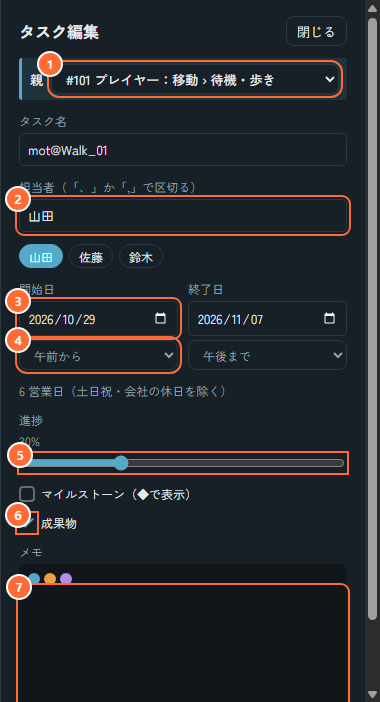
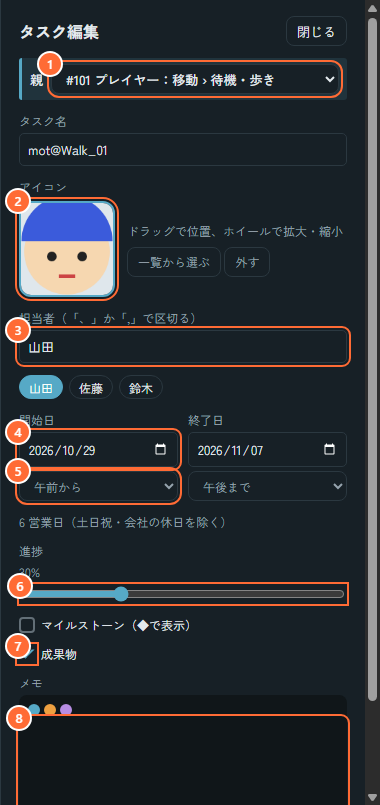
v0.0.12
from e2f1e49

diff --git a/js/ui.js b/js/ui.js
@@ -16,6 +16,7 @@ function openTask(id){
   parOpts(all,r);FF.forEach(([k,get])=>fset(k,get(r,all)));formInit=Object.fromEntries(FF.map(([k])=>[k,fval(k)]));
   ["f-s","f-sh","f-e","f-eh","f-p","f-ms","f-dv"].forEach(k=>$(k).disabled=!!r.parent||readOnly);$("f-pa").disabled=readOnly;
   formExtras(r);
+  fIcon=r.icon&&IMGF.test(r.icon.file)?{...r.icon}:null;fIcon0=icoN(fIcon);fPar=!!r.parent;$("f-icgal").hidden=true;icoForm();
   render();
 }
 /* task form fields; while the form is open, fields the user has not touched follow changes made elsewhere
@@ -39,6 +40,7 @@ function syncForm(){
   const pv=$("f-pa").value;parOpts(all,r);$("f-pa").value=pv;if($("f-pa").selectedIndex<0)$("f-pa").value=formInit["f-pa"]=parId(all,r); // the picked parent is gone: back to where the task is
   let ch=false;FF.forEach(([k,get])=>{const v=get(r,all);if(fval(k)===formInit[k]&&v!==formInit[k]){fset(k,v);formInit[k]=v;ch=true}});
   if(ch)formExtras(r);
+  icoForm(); // a picture read just now
 }
 const formH=(s,e)=>{const a=2*D(s)+($("f-sh").value==="pm"?1:0);return[a,Math.max(a,2*D(e)+($("f-eh").value==="am"?0:1))]}; // the panel's dates as half-day slots: an afternoon start with a morning end on one day = that afternoon
 function bizHint(){const s=$("f-s").value,e=$("f-e").value;if(!s||!e)return"";if(e<s)return"終了日が開始日より前です";return`${bizH(...formH(s,e))} 営業日（土日祝・会社の休日を除く）`}
@@ -71,11 +73,46 @@ $("taskForm").addEventListener("submit",e=>{
   t.assignees=names($("f-as").value);
   if(!$("f-s").disabled){let s=$("f-s").value||t.start,en=$("f-e").value||t.end;if(en<s)en=s;setH(t,...formH(s,en));t.progress=+$("f-p").value;t.milestone=$("f-ms").checked;setDv(t,$("f-dv").checked)}
   t.memo=$("f-memo").value;
+  const ic=icoN(fIcon);if(ic!==fIcon0){if(ic)t.icon=JSON.parse(ic);else delete t.icon} // stored only when there is one, so old data stays as it was
   // 親 changed: move under it (after its children); （なし） = top level, right after the top-level task it was under. moveBlock saves — one undo step with the fields
   const pa=$("f-pa").value,top=()=>{const ts=p.tasks;let i=ts.indexOf(t);while(ts[i].level>0)i--;return ts[i].id};
   if(pa===formInit["f-pa"]||!moveBlock(p,[t.id],pa||top(),pa?"in":"after"))save(p);
   toast("保存しました");closeDrawer();
 });
+/* icon in the task panel (v0.0.12): fIcon = the icon as 保存 will write it (null = none), fIcon0 = as it was. A picture dropped on the box, or picked by
+   clicking the empty box, goes into the shared folder's images/ at once (storage.js imgPut); one from the list is there already. Drag in the box = move, wheel = zoom */
+let fIcon=null,fIcon0="",fPar=false,icoDrag=null;
+const r3=v=>Math.round(v*1000)/1000,icoN=i=>i?JSON.stringify({file:i.file,x:r3(num(i.x,0,1,.5)),y:r3(num(i.y,0,1,.5)),z:r3(num(i.z,1,5,1))}):"";
+const icoOn=()=>!!sh.dir&&sh.ok&&!readOnly;
+function icoForm(){const box=$("f-icbox"),img=box.firstElementChild,c=fIcon&&imgOf(fIcon.file);
+  box.classList.toggle("dv",!fPar&&$("f-dv").checked);box.classList.toggle("has",!!c);box.classList.toggle("off",!icoOn());
+  if(c){img.src=c.url;img.style.cssText=icoPos(c,fIcon)}else img.removeAttribute("src");
+  $("f-ichint").textContent=!sh.dir?"共有フォルダを選ぶとアイコンを使えます":!sh.ok?"共有フォルダに接続するとアイコンを使えます":fIcon&&!c?"画像を読み込み中…（共有フォルダの images に見つからないときは表示されません）"
+    :readOnly?"":c?"ドラッグで位置、ホイールで拡大・縮小":"画像をドロップするか、枠をクリックしてファイルを選びます";
+  $("f-icpick").disabled=!icoOn();$("f-icdel").hidden=!fIcon||readOnly}
+async function icoAdd(f){if(!icoOn())return;$("f-ichint").textContent="画像を保存中…";
+  try{fIcon={file:await imgPut(f),x:.5,y:.5,z:1};$("f-icgal").hidden=true}catch(e){log("img-fail",{step:"add",...errInfo(e)});
+    toast(e?.name==="InvalidStateError"?"画像として読み込めませんでした。PNG・JPEG・WebP などの画像ファイルを選んでください":`画像を保存できませんでした（${e?.name||"Error"}）。共有フォルダにつながっているか確認してください`)}icoForm()}
+const icb=$("f-icbox");
+icb.addEventListener("click",()=>{if(!fIcon&&icoOn())$("f-icin").click()});
+$("f-icin").addEventListener("change",e=>{const f=e.target.files[0];e.target.value="";if(f)icoAdd(f)});
+icb.addEventListener("dragover",e=>{e.preventDefault();e.stopPropagation()});
+icb.addEventListener("drop",e=>{e.preventDefault();e.stopPropagation();const f=e.dataTransfer.files[0];if(f)icoAdd(f)}); // not the page's drop (a backup file)
+icb.addEventListener("pointerdown",e=>{if(!fIcon||!imgs[fIcon.file]?.url||readOnly)return;e.preventDefault();icb.setPointerCapture(e.pointerId);icoDrag=[e.clientX,e.clientY]});
+icb.addEventListener("pointermove",e=>{if(!icoDrag)return;const c=imgs[fIcon.file],s=icb.clientWidth*num(fIcon.z,1,5,1)/Math.min(c.w,c.h); // s = screen px per picture px
+  fIcon={...fIcon,x:num(num(fIcon.x,0,1,.5)-(e.clientX-icoDrag[0])/(s*c.w),0,1,.5),y:num(num(fIcon.y,0,1,.5)-(e.clientY-icoDrag[1])/(s*c.h),0,1,.5)};icoDrag=[e.clientX,e.clientY];icoForm()});
+["pointerup","pointercancel"].forEach(k=>icb.addEventListener(k,()=>icoDrag=null));
+// the same without the mouse: Enter / Space on the empty box = pick a file; arrows move the picture, + / − zoom
+icb.addEventListener("keydown",e=>{if(readOnly)return;if(!fIcon){if((e.key==="Enter"||e.key===" ")&&icoOn()){e.preventDefault();$("f-icin").click()}return}
+  if(!imgs[fIcon.file]?.url)return;const d={ArrowLeft:[-1,0],ArrowRight:[1,0],ArrowUp:[0,-1],ArrowDown:[0,1]}[e.key],z=e.key==="+"||e.key===";"?1.1:e.key==="-"?1/1.1:0;if(!d&&!z)return;e.preventDefault();e.stopPropagation();
+  fIcon=d?{...fIcon,x:num(num(fIcon.x,0,1,.5)+d[0]*.02,0,1,.5),y:num(num(fIcon.y,0,1,.5)+d[1]*.02,0,1,.5)}:{...fIcon,z:num(num(fIcon.z,1,5,1)*z,1,5,1)};icoForm()});
+icb.addEventListener("wheel",e=>{if(!fIcon||!imgs[fIcon.file]?.url||readOnly)return;e.preventDefault();fIcon={...fIcon,z:num(num(fIcon.z,1,5,1)*Math.exp(-e.deltaY/500),1,5,1)};icoForm()},{passive:false});
+$("f-icpick").addEventListener("click",async()=>{const g=$("f-icgal");if(!g.hidden){g.hidden=true;return}g.hidden=false;g.textContent="読み込み中…";
+  const ns=await imgList(),cs=await Promise.all(ns.map(imgLoad));
+  g.innerHTML=ns.map((n,i)=>cs[i]?`<button type="button" data-icf="${n}" title="この画像を使う" aria-label="この画像を使う"><img src="${cs[i].url}" alt=""></button>`:"").join("")||'<span class="hint">共有フォルダの images に画像がありません</span>'}); // n: <16 hex>.webp (IMGF)
+$("f-icgal").addEventListener("click",e=>{const b=e.target.closest("[data-icf]");if(!b||readOnly)return;fIcon={file:b.dataset.icf,x:.5,y:.5,z:1};$("f-icgal").hidden=true;icoForm()});
+$("f-icdel").addEventListener("click",()=>{fIcon=null;icoForm()});
+$("f-dv").addEventListener("change",icoForm); // a deliverable's icon is square
 $("taskDel").addEventListener("click",e=>{
   const b=e.currentTarget;if(!b.classList.contains("arm")){b.classList.add("arm");b.textContent="もう一度押すと削除";return}
   const p=projects[curId];p.tasks=p.tasks.filter(t=>t.id!==editingId);save(p);closeDrawer();toast("削除しました");
@@ -83,9 +120,11 @@ $("taskDel").addEventListener("click",e=>{
 $("projForm").addEventListener("submit",e=>{e.preventDefault();const p=projects[curId];if(readOnly)return;p.name=$("p-name").value.trim()||"無題";save(p);toast("保存しました");closeDrawer()});
 $("p-copy").addEventListener("click",()=>{const v=$("p-json").value;navigator.clipboard.writeText(v).then(()=>toast("コピーしました"),()=>{$("p-json").select();toast("選択しました。Ctrl+C でコピーしてください")})});
 /* replace the current project's tasks (and milestones / members / name when given); shared by JSON and Excel import */
-function replaceData(d){
+// xl: from Excel, which has no icons — a task keeps the icon it has now (same ID). An icon is kept only with a picture name that can be looked up (IMGF)
+function replaceData(d,xl){
   const p=projects[curId];if(!p||readOnly)return;const tasks=Array.isArray(d)?d:d.tasks;if(!Array.isArray(tasks))throw 0;
-  p.tasks=tasks.filter(t=>t&&t.name&&isDay(t.start)&&isDay(t.end)).map(t=>({id:t.id?String(t.id):uid(),name:String(t.name),start:t.start,end:t.end,progress:Math.max(0,Math.min(100,+t.progress||0)),assignees:Array.isArray(t.assignees)?t.assignees.map(String):[],level:+t.level||0,milestone:!!t.milestone,memo:t.memo||"",deps:Array.isArray(t.deps)?t.deps.map(String):[],...(isHex(t.color)?{color:t.color}:{}),...(t.deliverable?{deliverable:true}:{}),...(t.startPM?{startPM:true}:{}),...(t.endAM?{endAM:true}:{})}));
+  const was=Object.fromEntries(p.tasks.map(t=>[t.id,t.icon])),icoIn=i=>i&&IMGF.test(i.file)?{icon:JSON.parse(icoN(i))}:{};
+  p.tasks=tasks.filter(t=>t&&t.name&&isDay(t.start)&&isDay(t.end)).map(t=>({id:t.id?String(t.id):uid(),name:String(t.name),start:t.start,end:t.end,progress:Math.max(0,Math.min(100,+t.progress||0)),assignees:Array.isArray(t.assignees)?t.assignees.map(String):[],level:+t.level||0,milestone:!!t.milestone,memo:t.memo||"",deps:Array.isArray(t.deps)?t.deps.map(String):[],...(isHex(t.color)?{color:t.color}:{}),...(t.deliverable?{deliverable:true}:{}),...(t.startPM?{startPM:true}:{}),...(t.endAM?{endAM:true}:{}),...icoIn(t.icon||xl&&was[String(t.id)])}));
   if(Array.isArray(d.milestones))p.milestones=d.milestones.filter(m=>m&&isDay(m.date)).map(m=>({id:m.id||uid(),date:m.date,title:String(m.title||""),color:MSC.includes(m.color)?m.color:"blue"}));
   if(Array.isArray(d.members))p.members=d.members.map(String);
   if(Array.isArray(d.holidays))p.holidays=d.holidays.filter(h=>h&&isDay(h.date)).map(h=>({date:h.date,color:isHex(h.color)?h.color:HOLC}));
@@ -137,7 +176,7 @@ $("p-xout").addEventListener("click",()=>{const p=projects[curId];if(p)xdl(toXls
 $("p-xlist").addEventListener("click",()=>{const p=projects[curId];if(p)xdl(toListXlsx(p),p," 一覧")});
 $("p-xin").addEventListener("click",()=>$("p-xfile").click());
 $("p-xfile").addEventListener("change",async e=>{const f=e.target.files[0];e.target.value="";if(!f)return;
-  try{replaceData(await fromXlsx(await f.arrayBuffer()))}catch(err){toast("Excelを読み取れませんでした。「タイプ」「タイトル」の列がある .xlsx（Brabio 形式）か確認してください")}});
+  try{replaceData(await fromXlsx(await f.arrayBuffer()),true)}catch(err){toast("Excelを読み取れませんでした。「タイプ」「タイトル」の列がある .xlsx（Brabio 形式）か確認してください")}});
 /* backup folder (storage.js): pick it, 保存 button, what was saved last, restore from any saved file */
 function bkInfo(){
   $("saveBtn").hidden=!window.showDirectoryPicker;
@@ -212,7 +251,10 @@ document.addEventListener("keydown",e=>{if(e.key==="Escape"&&!drawer.hidden)clos
 $("projSel").addEventListener("change",e=>setCur(e.target.value));
 $("projNew").addEventListener("click",newProject);
 $("projSet").addEventListener("click",()=>$("projForm").hidden?openProject():closeDrawer()); // it shows a cross while open: pressing it again closes
-$("meSel").addEventListener("change",e=>{me=e.target.value;ls.set("mg.me",me);render()});
+const setMe=v=>{me=v;ls.set("mg.me",me);render()};
+$("meSel").addEventListener("change",e=>{const s=e.target;if(!s.selectedOptions[0].hasAttribute("data-in"))return setMe(s.value);s.hidden=true;const i=$("meIn");i.hidden=false;i.value=me;i.focus();i.select()}); // 名前を入力…: a name off the roster, so a newcomer can take the lock and add themselves
+$("meIn").addEventListener("keydown",e=>{if(e.key!=="Enter"&&e.key!=="Escape")return;e.stopPropagation();const v=e.target.value.trim();e.target.blur();if(e.key==="Enter"&&v)setMe(v)});
+$("meIn").addEventListener("blur",e=>{e.target.hidden=true;$("meSel").hidden=false;render()}); // left without Enter: nothing changes
 $("whoSel").addEventListener("change",e=>{view.who=e.target.value;render()});
 document.querySelectorAll("[data-view]").forEach(b=>b.addEventListener("click",()=>{view.list=b.dataset.view==="list";ls.set("mg.view",view.list?"list":"gantt");render()}));
 $("leafBtn").addEventListener("click",()=>{view.leaf=!view.leaf;ls.set("mg.leaf",view.leaf?"1":"");render()}); // only the top folders and the tagged tasks (deliverables), in 一覧 and the chart
@@ -320,6 +362,11 @@ document.addEventListener("keydown",e=>{if(e.key==="Escape"&&pgEdit)closePg()});
 
 /* right-click menu on the task name side */
 const ctx=$("ctxMenu");let ctxId=null;
+// a task icon held under the mouse for 0.2 s: the whole picture beside it (v0.0.12)
+let icoT=0;const icoOff=()=>{clearTimeout(icoT);$("icoPop").hidden=true};
+chart.addEventListener("mouseover",e=>{const i=e.target.closest(".ico");if(!i)return;icoOff();icoT=setTimeout(()=>{const c=imgs[i.dataset.img];if(!c?.url||!i.isConnected)return;const p=$("icoPop"),b=i.getBoundingClientRect();
+  p.firstChild.src=c.url;p.hidden=false;const ph=c.h*Math.min(1,256/c.w,256/c.h)+10;p.style.left=b.right+8+"px";p.style.top=Math.max(8,Math.min(innerHeight-ph-8,b.top+b.height/2-ph/2))+"px"},200)});
+chart.addEventListener("mouseout",e=>{if(e.target.closest(".ico"))icoOff()});
 chart.addEventListener("contextmenu",e=>{const o=e.target.closest("[data-open]");if(!o||readOnly||e.target.closest("input"))return;e.preventDefault();
   ctxId=o.dataset.open;if(!sel.has(ctxId))selectRow(ctxId);
   const r=derive(projects[curId]).find(x=>x.id===ctxId);$("ctxColor").hidden=!r?.parent; // 色 only for parents

diff --git a/guide.html b/guide.html
@@ -123,7 +123,7 @@ ol.steps>li{margin-bottom:6px}
 <h3>1-3. 自分の名前を選ぶ</h3>
 <p>右上の「自分」<span class="n">1</span>で自分の名前を選びます。<b>「自分」を選ぶまで、共有プロジェクトは閲覧のみです</b>（だれが編集中かを表示するために使います）。</p>
 <figure><img src="guide/me.png" alt="右上の「自分」のプルダウン" width="309" height="46" loading="lazy"><figcaption>このパソコンのブラウザに記憶されるので、毎回選ぶ必要はありません。</figcaption></figure>
-<div class="note">一覧に自分の名前がないときは、プロジェクトのメンバー名簿に登録されていません。共有プロジェクトの名簿はロック中の人だけが変更できるので、すでに使っている人に「設定」→「メンバー」<span class="n">1</span>（上の「設定」パネルの写真）で追加してもらってください。</div>
+<div class="note">一覧に自分の名前がないときは、プロジェクトのメンバー名簿に登録されていません。「自分」の最後の「名前を入力…」を選んで自分の名前を入力し、Enter を押してください。そのあと編集ロック（<a href="#lock">3 章</a>）をかけて、「設定」→「メンバー」<span class="n">1</span>（上の「設定」パネルの写真）で自分を追加します。</div>
 
 <h3>1-4. プロジェクトを開く</h3>
 <p>左上のプロジェクトのプルダウンから選びます。名前の前に 👥 が付いているのが共有ドライブのプロジェクトです。</p>
@@ -198,15 +198,16 @@ ol.steps>li{margin-bottom:6px}
 </table>
 <figure><img src="guide/bar.png" alt="バー。1 中央をドラッグで移動、2 端をドラッグで日付変更、3 進捗をダブルクリック" width="498" height="109" loading="lazy"><figcaption><span class="n">1</span>中央をドラッグで移動　<span class="n">2</span>端をドラッグで開始日・終了日　<span class="n">3</span>ダブルクリックで進捗。矢印はリンク（前の工程が延びると後ろが自動でずれます）</figcaption></figure>
 <div class="row2">
-<figure><img src="guide/task-panel.png" alt="タスク編集パネル" width="380" height="702" loading="lazy"><figcaption>ダブルクリックで開くパネル</figcaption></figure>
+<figure><img src="guide/task-panel.png" alt="タスク編集パネル" width="380" height="805" loading="lazy"><figcaption>ダブルクリックで開くパネル</figcaption></figure>
 <div style="flex:1 1 300px">
 <p><span class="n">1</span><b>親</b>：どのタスクの下に入るか。変えて「保存」で移動します</p>
-<p><span class="n">2</span><b>担当者</b>：下の名前を押しても選べます</p>
-<p><span class="n">3</span><b>開始日・終了日</b></p>
-<p><span class="n">4</span><b>午前から / 午後から</b>：半日単位にできます（終了日は「午後まで / 午前まで」）</p>
-<p><span class="n">5</span><b>進捗</b></p>
-<p><span class="n">6</span><b>成果物</b>：成果物のタグ（<a href="#list">第 6 章</a>）</p>
-<p><span class="n">7</span><b>メモ</b>：説明やリンクなど</p>
+<p><span class="n">2</span><b>アイコン</b>：タスクの前に付ける画像（<a href="#icon">下の「アイコン」</a>）</p>
+<p><span class="n">3</span><b>担当者</b>：下の名前を押しても選べます</p>
+<p><span class="n">4</span><b>開始日・終了日</b></p>
+<p><span class="n">5</span><b>午前から / 午後から</b>：半日単位にできます（終了日は「午後まで / 午前まで」）</p>
+<p><span class="n">6</span><b>進捗</b></p>
+<p><span class="n">7</span><b>成果物</b>：成果物のタグ（<a href="#list">第 6 章</a>）</p>
+<p><span class="n">8</span><b>メモ</b>：説明やリンクなど</p>
 <p>最後に「保存」を押します。</p>
 </div>
 </div>
@@ -215,6 +216,26 @@ ol.steps>li{margin-bottom:6px}
 <div style="flex:1 1 260px">
 <p><b>子タスクをまとめて追加</b>：右クリック →「子タスクを一括追加」で、1 行に 1 つ名前を書く（貼り付けもできます）と、まとめて子タスクになります。</p>
 <p><b>親タスク</b>：子タスクを持つタスクです。日付・進捗・担当は子タスクから自動で計算されるので、子タスクのほうを変えてください。階層は 4 段までです。</p>
+</div>
+</div>
+
+<h3 id="icon">アイコン</h3>
+<p>タスク名が ID ばかりで、どのキャラクターか分からないときは、タスクやフォルダの前に<b>画像</b>を付けられます。アイコンは名前の前の丸の代わりに表示され（成果物は四角）、外側の線の色が状態を表します。フォルダのアイコンは 📂 と名前の間に出ます。</p>
+<figure><img src="guide/icon-rows.png" alt="アイコンを付けたタスクとフォルダ" width="548" height="391" loading="lazy"><figcaption>同じ画像を何個のタスクに付けても構いません。アイコンのないタスクは元の丸のままです</figcaption></figure>
+<div class="row2">
+<figure><img src="guide/icon-panel.png" alt="詳細編集パネルのアイコン" width="364" height="213" loading="lazy"><figcaption>詳細編集パネルの「アイコン」</figcaption></figure>
+<div style="flex:1 1 300px">
+<p><span class="n">1</span>パソコンの画像をこの枠に<b>ドラッグ＆ドロップ</b>します（空の枠をクリックしてファイルを選んでも構いません）。画像は共有フォルダに保存され、みんなが使えるようになります。枠の中を<b>ドラッグ</b>すると丸に映る部分が動き、<b>マウスホイール</b>で拡大・縮小します</p>
+<p><span class="n">2</span><b>一覧から選ぶ</b>：だれかがすでに入れた画像から選びます。ほかのプロジェクトで使っている画像も選べます</p>
+<p><span class="n">3</span><b>外す</b>：このタスクからアイコンを外します（画像そのものは残ります）</p>
+<p><span class="n">4</span>入っている画像の一覧。押すとその画像になります</p>
+<p>最後に「保存」を押します。</p>
+</div>
+</div>
+<div class="row2">
+<figure><img src="guide/icon-hover.png" alt="アイコンにマウスを置くと画像全体が出る" width="280" height="272" loading="lazy"><figcaption>アイコンの上にマウスを少し置くと、画像全体が表示されます</figcaption></figure>
+<div style="flex:1 1 260px">
+<div class="note">アイコンは<b>共有フォルダにつながっているとき</b>だけ使えます（<a href="#setup">1-2</a>）。つながっていないときは、アイコンの代わりに元の丸が表示されます。</div>
 </div>
 </div>
 
@@ -279,12 +300,13 @@ ol.steps>li{margin-bottom:6px}
 <h2 id="faq">10. 困ったとき</h2>
 <table>
   <tr><th>困ったこと</th><th>原因と対処</th></tr>
+  <tr><td>アイコンが表示されない・付けられない</td><td>共有フォルダにつながっていません（<a href="#setup">1-2</a>）。画面をクリックすると接続を許可するか聞かれることがあります。つながっているのに丸のままのときは、その画像が共有フォルダの <code>data\images\</code> にありません（消された可能性があります）。アイコンを付け直してください</td></tr>
   <tr><td>共有プロジェクトが編集できない・ボタンを押しても何も起こらない</td><td>ロックがかかっていません。タスク表の左上のスイッチを押してください。押せないときは「自分」が未選択です（<a href="#setup">1-3</a>）。赤で「〇〇さんが編集中」なら、終わるのを待ちます</td></tr>
   <tr><td>「新しいバージョン … Tempo.bat から開き直してください」と出た</td><td>ページを閉じて、<code>Tempo.bat</code> から開き直してください。それまで共有プロジェクトは閲覧のみです</td></tr>
   <tr><td>「共有フォルダに接続できません」と出た</td><td>共有ドライブにつながっているか確認してください。その間、共有プロジェクトは閲覧のみです</td></tr>
   <tr><td>「未保存の変更があります（再試行中）」が消えない</td><td>保存を自動で再試行しています。ページを閉じずに、共有ドライブへの接続を確認してください。続くときは、メッセージのかっこ内の英語を管理者に伝えます</td></tr>
   <tr><td>「フォルダを選ぶ」で data を選べない</td><td>共有ドライブの <code>Tempo.html</code> を直接開いていませんか。<code>Tempo.bat</code> から開いてください</td></tr>
-  <tr><td>「自分」に自分の名前がない</td><td>名簿に登録されていません。すでに使っている人に「設定」→「メンバー」で追加してもらってください</td></tr>
+  <tr><td>「自分」に自分の名前がない</td><td>名簿に登録されていません。「名前を入力…」で名前を入力し、ロックしてから「設定」→「メンバー」で自分を追加してください（<a href="#setup">1-3</a>）</td></tr>
   <tr><td>親タスクの日付が変えられない</td><td>子タスクから自動計算されます。子タスクの日付を変えてください</td></tr>
   <tr><td>ドラッグすると文字が選択されてしまう</td><td>行を約 0.35 秒長押ししてからドラッグします</td></tr>
   <tr><td>進捗の「N%」をクリックしても反応しない</td><td>ダブルクリックです</td></tr>
@@ -300,6 +322,7 @@ ol.steps>li{margin-bottom:6px}
   <tr><td><code>app\</code></td><td>Web ページ。新しいバージョンの公開時に丸ごと入れ替わるので、ほかのファイルを置かないでください</td></tr>
   <tr><td><code>data\projects\</code></td><td>プロジェクトごとに 1 ファイル（<code>プロジェクト名_ID.json</code>）。直接編集・削除しないでください。バックアップファイルをここへコピーしても読み込まれません（「バックアップから復元」→「共有フォルダへ移動」を使います）</td></tr>
   <tr><td><code>data\locks\</code></td><td>編集ロックの空のファイル。そのままで構いません（古いものは 2 分で無効になります）</td></tr>
+  <tr><td><code>data\images\</code></td><td>タスクのアイコンの画像（全プロジェクト共通）。ファイル名は Tempo が付けます。タスクから外しても残ります。削除しないでください（ほかのプロジェクトで使っているかもしれません）</td></tr>
   <tr><td><code>data\logs\</code></td><td>操作の記録（1 人 1 日 1 ファイル）。不具合の調査用で、古いものはいつ削除してもかまいません</td></tr>
   <tr><td><code>Tempo.bat</code></td><td>起動用。各自が自分のパソコンにコピーして使います</td></tr>
 </table>

diff --git a/js/view.js b/js/view.js
@@ -13,7 +13,7 @@ function renderToolbar(){
   const ms=p?members(p):[];
   if(view.who&&!ms.includes(view.who))view.who="";
   $("whoSel").innerHTML=`<option value="">（全員）</option>`+ms.map(m=>`<option${m===view.who?" selected":""}>${esc(m)}</option>`).join("");
-  $("meSel").innerHTML=`<option value="">自分：未選択</option>`+[...new Set([...(p?roster(p):[]),...(me?[me]:[])])].map(m=>`<option value="${esc(m)}"${m===me?" selected":""}>自分：${esc(m)}</option>`).join("");
+  $("meSel").innerHTML=`<option value="">自分：未選択</option>`+[...new Set([...(p?roster(p):[]),...(me?[me]:[])])].map(m=>`<option value="${esc(m)}"${m===me?" selected":""}>自分：${esc(m)}</option>`).join("")+`<option data-in>名前を入力…</option>`; // not on the roster (a newcomer): typed in, ui.js meIn
   $("members").innerHTML=ms.map(m=>`<option value="${esc(m)}">`).join("");
   document.querySelectorAll("[data-scale]").forEach(b=>{b.setAttribute("aria-pressed",b.dataset.scale===view.scale);b.disabled=view.list});$("todayBtn").disabled=view.list; // no timeline in 一覧
   document.querySelectorAll("[data-view]").forEach(b=>b.setAttribute("aria-pressed",(b.dataset.view==="list")===view.list));
@@ -50,6 +50,12 @@ const dS=h=>md(h>>1)+(h&1?'<sup class="half" title="午後から">½</sup>':""),
 function offSegs(h0,h1,dw){let o="";for(let n=h0>>1;n<=h1>>1;n++)if(isOff(n)){let m=n;while(m<h1>>1&&isOff(m+1))m++;const a0=Math.max(2*n,h0),b0=Math.min(2*m+1,h1);
   o+=`<i class="offd" style="left:${(a0-h0)*dw/2}px;width:${(b0-a0+1)*dw/2}px"></i>`;n=m}return o}
 const isDv=r=>!!r.deliverable&&!r.parent; // a deliverable (成果物): tagged, and only while it has no sub-tasks — like the milestone flag
+// task icon (v0.0.12): the picture in a circle (a square for a deliverable) ringed in the status color, in place of the dot; a folder's after its fold button, ringed in its color.
+// icon.x / y = the point of the picture at the middle (0–1), z = zoom (1 = its shorter side fills the circle). Not shown until the picture is read (storage.js imgOf)
+const num=(v,a,b,d)=>{v=+v;return Number.isFinite(v)?Math.min(b,Math.max(a,v)):d};
+const icoPos=(c,i)=>{const z=num(i.z,1,5,1),m=Math.min(c.w,c.h),W=z*c.w/m*100,V=z*c.h/m*100;return`width:${W}%;height:${V}%;left:${50-num(i.x,0,1,.5)*W}%;top:${50-num(i.y,0,1,.5)*V}%`}; // c = the picture's size, i = the icon
+function ico(r){const c=r.icon&&imgOf(r.icon.file);if(!c)return"";
+  return`<span class="ico${r.parent?"":` st-${r.st}`}${isDv(r)?" dv":""}" data-img="${r.icon.file}" role="img" aria-label="${r.parent?"アイコン":ST[r.st]+(isDv(r)?"・成果物":"")}"><img src="${c.url}" alt="" style="${icoPos(c,r.icon)}"></span>`}
 // 一覧 view, 完了 column: a leaf has a checkbox (100% ⇄ 0%); a parent shows 完了 when every task under it is done, else done / all.
 // dvOnly (成果物のみ): a folder counts its deliverables only, — when it has none
 function doneCell(all,r,dvOnly){
@@ -72,7 +78,7 @@ function refRows(rp,all,rms,X,XH,dw){
     const h0=hs(r),h1=he(r),x=XH(h0),w=(h1-h0+1)*dw/2,slim=r.parent&&r.level&&!shut,id=esc(r.id),urg=!r.parent&&r.st!=="done"&&r.st!=="over";
     const mark=slim?"":r.milestone&&!r.parent?`<div class="ms st-${r.st}" style="left:${X(h1>>1)+dw/2-7}px" title="${esc(r.name)}"></div><span class="who" style="left:${X(h1>>1)+dw/2+12}px">${lab(r,h0,h1)}</span>`
       :`<div class="bar st-${r.st}${r.parent?" sum":""}${urg?" urg dl"+delay(r):""}" style="left:${x}px;width:${w}px" title="${esc(r.name)}｜${ST[r.st]}"><div class="fill" style="width:${r.progress}%"></div>${offSegs(h0,h1,dw)}${!r.parent&&w>50?`<span class="bl">${esc(r.name)}</span>`:""}</div><span class="who" style="left:${x+w+6}px">${lab(r,h0,h1)}</span>`;
-    h+=`<div class="row ref${r.parent?" parent pc":""}${slim?" slim":""}"${r.parent?` style="--pc:${parColor(r)}"`:""}><div class="lc"><div class="c-name" style="padding-left:${6+(leaf?(r.level?1:0):r.level)*18}px">${r.parent?`<button type="button" class="tg" data-rtg="${id}" aria-label="折りたたみ" aria-expanded="${!shut}">${r.level?(shut?"▸":"▾"):folder(!shut)}</button>`:`<span class="dot st-${r.st}${r.deliverable?" dv":""}" title="${ST[r.st]}"></span>`}<span class="tn"${leaf&&r.level>1?` title="${esc(pa.slice(1,r.level).join(" › "))}"`:""}>${esc(r.name)}</span></div><div class="c-as">${esc(r.assignees.join("、"))}</div><div class="c-d">${slim?"":dS(h0)}</div><div class="c-d">${slim?"":dE(h1)}</div><div class="c-n">${bizH(h0,h1)}</div><div class="c-p">${r.progress}%</div></div><div class="tl">${mark}</div></div>`;
+    h+=`<div class="row ref${r.parent?" parent pc":""}${slim?" slim":""}"${r.parent?` style="--pc:${parColor(r)}"`:""}><div class="lc"><div class="c-name" style="padding-left:${6+(leaf?(r.level?1:0):r.level)*18}px">${r.parent?`<button type="button" class="tg" data-rtg="${id}" aria-label="折りたたみ" aria-expanded="${!shut}">${r.level?(shut?"▸":"▾"):folder(!shut)}</button>${ico(r)}`:ico(r)||`<span class="dot st-${r.st}${r.deliverable?" dv":""}" title="${ST[r.st]}"></span>`}<span class="tn"${leaf&&r.level>1?` title="${esc(pa.slice(1,r.level).join(" › "))}"`:""}>${esc(r.name)}</span></div><div class="c-as">${esc(r.assignees.join("、"))}</div><div class="c-d">${slim?"":dS(h0)}</div><div class="c-d">${slim?"":dE(h1)}</div><div class="c-n">${bizH(h0,h1)}</div><div class="c-p">${r.progress}%</div></div><div class="tl">${mark}</div></div>`;
   });
   return h;
 }
@@ -156,7 +162,7 @@ function render(){
       mark=`<div class="bar st-${r.st}${r.parent?" sum":""}${urg?" urg dl"+delay(r):""}" data-bar="${id}" style="left:${x}px;width:${w}px" title="${esc(r.name)}｜${md(s)}${h0&1?"午後":""}〜${md(e)}${h1&1?"":"午前"}｜${r.progress}%｜${ST[r.st]}"><div class="fill" style="width:${r.progress}%"></div>${offSegs(h0,h1,dw)}${!r.parent&&w>50?`<span class="bl">${esc(r.name)}</span>`:""}${r.parent?"":`<i class="h l"></i><i class="h r"></i>`}</div><span class="who" style="left:${x+w+6}px">${lab(r,h0,h1)}</span>`;
     }
     rowsHtml+=`<div class="row${r.parent?" parent":""}${r.parent?" pc":""}${slim?" slim":""}${r.id===editingId||sel.has(r.id)?" sel":""}"${r.parent?` style="--pc:${parColor(r)}"`:""} data-id="${id}">
-      <div class="lc" data-open="${id}"><div class="c-name" style="padding-left:${6+(leaf?(r.level?1:0):r.level)*18}px">${r.parent?`<button type="button" class="tg" data-tg="${id}" aria-label="折りたたみ" aria-expanded="${!collapsed.has(r.id)}">${r.level?(collapsed.has(r.id)?"▸":"▾"):folder(!collapsed.has(r.id))}</button>`:`<span class="dot st-${r.st}${r.deliverable?" dv":""}" title="${ST[r.st]}${r.deliverable?"・成果物":""}"></span>`}<span class="tn"${leaf&&r.level>1?` title="${esc(pa.slice(1,r.level).join(" › "))}"`:""}>${esc(r.name)}</span></div><div class="c-as">${r.parent||readOnly?esc(who):`<button type="button" class="asbox${who?"":" none"}" data-as="${id}" aria-label="担当者を選ぶ" title="${esc(who)}"><span>${esc(who)||"担当なし"}</span><b aria-hidden="true">${who?"▾":"＋"}</b></button>`}</div><div class="c-d">${slim?"":dS(h0)}</div><div class="c-d">${slim?"":dE(h1)}</div><div class="c-n">${bd}</div><div class="c-p">${r.progress}%</div><div class="c-id">${id}</div><div class="c-st">${ST[r.st]}</div><div class="c-done">${list?doneCell(all,r,leaf):""}</div></div>
+      <div class="lc" data-open="${id}"><div class="c-name" style="padding-left:${6+(leaf?(r.level?1:0):r.level)*18}px">${r.parent?`<button type="button" class="tg" data-tg="${id}" aria-label="折りたたみ" aria-expanded="${!collapsed.has(r.id)}">${r.level?(collapsed.has(r.id)?"▸":"▾"):folder(!collapsed.has(r.id))}</button>${ico(r)}`:ico(r)||`<span class="dot st-${r.st}${r.deliverable?" dv":""}" title="${ST[r.st]}${r.deliverable?"・成果物":""}"></span>`}<span class="tn"${leaf&&r.level>1?` title="${esc(pa.slice(1,r.level).join(" › "))}"`:""}>${esc(r.name)}</span></div><div class="c-as">${r.parent||readOnly?esc(who):`<button type="button" class="asbox${who?"":" none"}" data-as="${id}" aria-label="担当者を選ぶ" title="${esc(who)}"><span>${esc(who)||"担当なし"}</span><b aria-hidden="true">${who?"▾":"＋"}</b></button>`}</div><div class="c-d">${slim?"":dS(h0)}</div><div class="c-d">${slim?"":dE(h1)}</div><div class="c-n">${bd}</div><div class="c-p">${r.progress}%</div><div class="c-id">${id}</div><div class="c-st">${ST[r.st]}</div><div class="c-done">${list?doneCell(all,r,leaf):""}</div></div>
       <div class="tl">${mark}</div></div>`;
   });
   if(!readOnly)rowsHtml+=`<div class="row addrow"><div class="lc" data-act="add"><div class="c-name" style="padding-left:12px">＋ タスクを追加</div></div><div class="tl"></div></div>`;

diff --git a/Tempo.html b/Tempo.html
@@ -14,12 +14,12 @@
 
 <div class="app">
   <div class="topbar">
-    <div class="brand"><i aria-hidden="true"><b></b><b style="--n:1"></b><b style="--n:2"></b></i><span role="img" aria-label="Tempo"><b style="--n:3">T</b><b style="--n:4">e</b><b style="--n:5">m</b><b style="--n:6">p</b><b style="--n:7">o</b></span><small class="ver">v0.0.11</small></div>
+    <div class="brand"><i aria-hidden="true"><b></b><b style="--n:1"></b><b style="--n:2"></b></i><span role="img" aria-label="Tempo"><b style="--n:3">T</b><b style="--n:4">e</b><b style="--n:5">m</b><b style="--n:6">p</b><b style="--n:7">o</b></span><small class="ver">v0.0.12</small></div>
     <select id="projSel" aria-label="プロジェクト"></select>
     <span class="spacer"></span>
     <span class="mode" id="modeLbl"></span>
     <button class="btn" id="saveBtn" type="button" title="バックアップフォルダに今の状態を保存（ファイル名は押した日時）">保存</button>
-    <select id="meSel" aria-label="自分" title="自分の名前（メンバー名簿から選ぶ・このブラウザに保存）"></select>
+    <select id="meSel" aria-label="自分" title="自分の名前（メンバー名簿から選ぶか、名簿にないときは入力・このブラウザに保存）"></select><input id="meIn" hidden maxlength="40" placeholder="自分の名前" aria-label="自分の名前">
   </div>
   <div class="bar1">
     <div class="seg" role="group" aria-label="表示">
@@ -77,6 +77,11 @@
     <header><h2>タスク編集</h2><button class="btn" type="button" data-close>閉じる</button></header>
     <label id="f-par" title="このタスクの親タスク。変えて「保存」を押すと、その親タスクの下へ移動します">親<select id="f-pa"></select></label>
     <label>タスク名<input id="f-name" required autocomplete="off"></label>
+    <div class="icf" id="f-ic">アイコン
+      <div class="icrow"><div class="icbox" id="f-icbox" tabindex="0" role="button" aria-label="アイコン（画像のドロップ、Enter でファイルを選ぶ、矢印キーで位置、＋ − で拡大・縮小）"><img alt=""><span>画像を<br>ドロップ</span></div>
+        <div class="icside"><span class="hint" id="f-ichint"></span><div><button class="btn" type="button" id="f-icpick">一覧から選ぶ</button> <button class="btn" type="button" id="f-icdel">外す</button></div></div></div>
+      <div class="icgal" id="f-icgal" hidden></div><input type="file" id="f-icin" accept="image/*" hidden>
+    </div>
     <label>担当者（「、」か「,」で区切る）<input id="f-as" list="members" autocomplete="off"></label>
     <div class="mem" id="f-mem" aria-label="メンバーから選ぶ"></div>
     <div class="two"><label>開始日<input type="date" id="f-s" max="9999-12-31"><select id="f-sh" aria-label="開始日の午前・午後"><option value="am">午前から</option><option value="pm">午後から</option></select></label><label>終了日<input type="date" id="f-e" max="9999-12-31"><select id="f-eh" aria-label="終了日の午前・午後"><option value="pm">午後まで</option><option value="am">午前まで</option></select></label></div>
@@ -115,6 +120,7 @@
 
 <div class="pop ctx" id="ctxMenu" role="menu" hidden><button type="button" role="menuitem" id="ctxRename">名前を変更</button><hr role="separator"><button type="button" role="menuitem" data-ctx="copy">コピー<kbd>Ctrl+C</kbd></button><button type="button" role="menuitem" data-ctx="paste">貼り付け<kbd>Ctrl+V</kbd></button><hr role="separator"><button type="button" role="menuitem" data-ctx="insAbove">上にタスクを挿入</button><button type="button" role="menuitem" data-ctx="insBelow">下にタスクを挿入</button><button type="button" role="menuitem" id="ctxBulk">子タスクを一括追加</button><hr role="separator"><button type="button" role="menuitem" id="ctxDv" title="選択中の、子タスクのないタスクに成果物のタグを付けます／外します">成果物にする</button><hr role="separator"><button type="button" role="menuitem" data-ctx="indent">子タスクにする<kbd>Tab</kbd></button><button type="button" role="menuitem" data-ctx="outdent">階層を上げる<kbd>Shift+Tab</kbd></button><button type="button" role="menuitem" data-ctx="up">上へ移動<kbd>Alt+↑</kbd></button><button type="button" role="menuitem" data-ctx="down">下へ移動<kbd>Alt+↓</kbd></button><div class="ctxc" id="ctxColor" hidden>色<input type="color" id="ctxPc" aria-label="親タスクの色"><button type="button" id="ctxPcOk">決定</button><button type="button" id="ctxPcNone">既定の色</button></div></div>
 <div class="pop aspop" id="asPop" hidden><div class="mem" id="asMem" aria-label="担当者を選ぶ"></div></div>
+<div id="icoPop" hidden><img alt=""></div>
 <div class="pop pgpop" id="pgPop" hidden><input type="range" id="pgR" min="0" max="100" step="5" aria-label="進捗"><button class="btn" type="button" id="pgBack">戻す</button></div>
 <form class="pop" id="dropPop" hidden>
   <h3>バックアップを読み込みますか？</h3>

diff --git a/js/storage.js b/js/storage.js
@@ -95,6 +95,27 @@ async function shWrite(dir,n,obj){let fh,made=false,step="find";
     step="open";const w=await fh.createWritable();step="write";await w.write(JSON.stringify(obj,null,1));step="close";await w.close()}
   catch(e){log("write-fail",{file:n,step,...errInfo(e)});if(made)try{if(!(await fh.getFile()).size)await dir.removeEntry(n)}catch(_){}throw e} // still empty: not what someone else wrote there meanwhile
   return fh}
+// Task icons (v0.0.12): pictures in images/, shared by every project; a task keeps only the file name (t.icon.file, <16 hex>.webp — anything else is not looked up).
+// Each is read once per page and kept as a blob URL with its size; one not found (or no folder) is looked for again after a minute. Loading redraws once
+const IMGF=/^[0-9a-f]{16}\.webp$/,imgs={};let imgT=0; // imgs: name → {url, w, h} | {p: being read} | {at: when it was not found}
+const imgKeep=async b=>{const bm=await createImageBitmap(b),c={url:URL.createObjectURL(b),w:bm.width,h:bm.height};bm.close();return c};
+function imgLoad(f){const c=imgs[f];if(c?.url)return Promise.resolve(c);if(c?.p)return c.p;if(c&&Date.now()-c.at<60e3||!sh.dir||!sh.ok)return Promise.resolve(null);
+  const p=(async()=>{try{return imgs[f]=await imgKeep(await(await(await sh.dir.getDirectoryHandle("images")).getFileHandle(f)).getFile())}
+    catch(e){imgs[f]={at:Date.now()};if(e.name!=="NotFoundError")log("img-fail",{file:f,...errInfo(e)});return null}})();
+  imgs[f]={p};return p}
+function imgOf(f){if(typeof f!=="string"||!IMGF.test(f))return null;const c=imgs[f];if(c?.url)return c;
+  if(!c?.p)imgLoad(f).then(x=>{if(x){clearTimeout(imgT);imgT=setTimeout(()=>{if(!busy())render()},50)}});return null}
+// every picture in images/, for the task panel's list. ponytail: reads them all; fine for a few hundred small pictures
+async function imgList(){let d;try{d=await sh.dir.getDirectoryHandle("images")}catch(e){return[]}const out=[];for await(const[n,h]of d.entries())if(h.kind==="file"&&IMGF.test(n))out.push(n);return out.sort()}
+// a picture dropped into the task panel: shrunk to 512 px on its longer side, as WebP, named by its content — the same picture twice is one file, and
+// nobody else's file has its name. Written at once (the task's icon itself waits for 保存); a file of that name already there is kept, unless it is empty
+async function imgPut(file){const bm=await createImageBitmap(file),k=Math.min(1,512/Math.max(bm.width,bm.height)),cv=new OffscreenCanvas(Math.max(1,Math.round(bm.width*k)),Math.max(1,Math.round(bm.height*k)));
+  cv.getContext("2d").drawImage(bm,0,0,cv.width,cv.height);bm.close();const b=await cv.convertToBlob({type:"image/webp",quality:.9});
+  const n=[...new Uint8Array(await crypto.subtle.digest("SHA-256",await b.arrayBuffer()))].slice(0,8).map(x=>x.toString(16).padStart(2,"0")).join("")+".webp";
+  await shRun(async()=>{const d=await shDir("images");try{if((await(await d.getFileHandle(n)).getFile()).size)return}catch(e){if(e.name!=="NotFoundError")throw e}
+    let step="create";try{const w=await(await d.getFileHandle(n,{create:true})).createWritable();step="write";await w.write(b);step="close";await w.close()}
+    catch(e){log("write-fail",{file:"images/"+n,step,...errInfo(e)});try{await d.removeEntry(n)}catch(_){}throw e}}); // an empty file left would stand for the picture
+  log("img-save",{file:n});imgs[n]=await imgKeep(b);return n}
 // The log (core.js log) goes to logs/<day>_<自分>.log: appended with the look at the folder, at most every 10 s, only when there is something new.
 // Everyone writes their own file and nobody reads them, so they are not in each other's way. What can't be written stays in logBuf and goes out
 // later; a failure here is neither shown nor logged — the log must not add trouble of its own

diff --git a/css/tempo.css b/css/tempo.css
@@ -94,6 +94,7 @@ input[type="range"]{accent-color:var(--accent)}
 .topbar .mode.warn{color:#F2A33C;font-weight:700} /* a save failed and is being tried again */
 .topbar #projSel{font-weight:500;max-width:40vw}
 .topbar select,.topbar .btn{height:26px;color:var(--ink)}
+#meIn{height:26px;width:140px;border:1px solid var(--line);border-radius:8px;padding:0 8px;font:inherit;color:var(--ink);background:var(--panel)}
 /* search: a magnifier inside the box on the left — after Uiverse.io, escannord "hot-yak-44" (picked by the user) */
 .q{position:relative;display:inline-flex;align-items:center}
 .q svg{position:absolute;left:9px;width:14px;height:14px;fill:var(--accent);pointer-events:none}
@@ -253,6 +254,29 @@ body.rowdrag,body.rowdrag *{cursor:grabbing!important}
 .corner .c-d,.corner .c-n,.corner .c-p{font-family:var(--font);font-size:11px}
 .dot{width:9px;height:9px;border-radius:50%;background:var(--c);flex:none}
 .dot.dv{border-radius:1px} /* a deliverable (成果物): square, same status color */
+/* task icon (v0.0.12, view.js ico): the picture cropped in a ring of the status color — a folder's in its own color; square for a deliverable. #icoPop: the whole picture, on hover */
+.ico{position:relative;width:22px;height:22px;border-radius:50%;border:2px solid var(--c);overflow:hidden;flex:none;background:var(--panel2)}
+.ico.dv{border-radius:4px}
+.parent .ico{border-color:var(--pc)}
+.slim .ico{width:16px;height:16px;border-width:1.5px}
+.ico img{position:absolute;max-width:none;pointer-events:none}
+#icoPop{position:fixed;z-index:26;padding:4px;background:var(--panel);border:1px solid var(--line);border-radius:8px;box-shadow:0 8px 28px rgba(0,0,0,.18);pointer-events:none}
+#icoPop img{display:block;max-width:256px;max-height:256px}
+/* the icon in the task panel (ui.js icoForm): the picture in a big circle (square for a deliverable) — dragged to move, wheel to zoom; the list of the pictures in images/ under it */
+.icf{display:flex;flex-direction:column;gap:8px;font-size:12px;color:var(--ink2)}
+.icrow{display:flex;gap:12px;align-items:center}
+.icbox{position:relative;width:96px;height:96px;flex:none;border-radius:50%;border:2px dashed var(--line);overflow:hidden;display:grid;place-items:center;text-align:center;font-size:11px;line-height:1.4;color:var(--ink2);background:var(--panel2);cursor:pointer;touch-action:none;user-select:none}
+.icbox.dv{border-radius:12px}
+.icbox.has{border-style:solid;border-color:var(--accent);cursor:grab}
+.icbox.off{cursor:default;opacity:.6}
+.icbox:focus-visible{outline:2px solid var(--accent);outline-offset:2px}
+.icbox.has span,.icbox:not(.has) img{display:none}
+.icbox img{position:absolute;max-width:none;pointer-events:none}
+.icside{display:flex;flex-direction:column;gap:8px;align-items:flex-start}
+.icgal{display:grid;grid-template-columns:repeat(auto-fill,52px);gap:8px;max-height:180px;overflow:auto}
+.icgal button{width:52px;height:52px;padding:0;border:1px solid var(--line);border-radius:6px;overflow:hidden;background:var(--panel2);cursor:pointer}
+.icgal button:hover{border-color:var(--accent)}
+.icgal img{width:100%;height:100%;object-fit:cover;display:block}
 .pop .chk{display:flex;align-items:center;gap:6px;font-size:13px}
 .tg{border:0;background:none;width:16px;padding:0;color:var(--ink2);flex:none}
 .tg .fd{display:block;color:var(--pc)}
